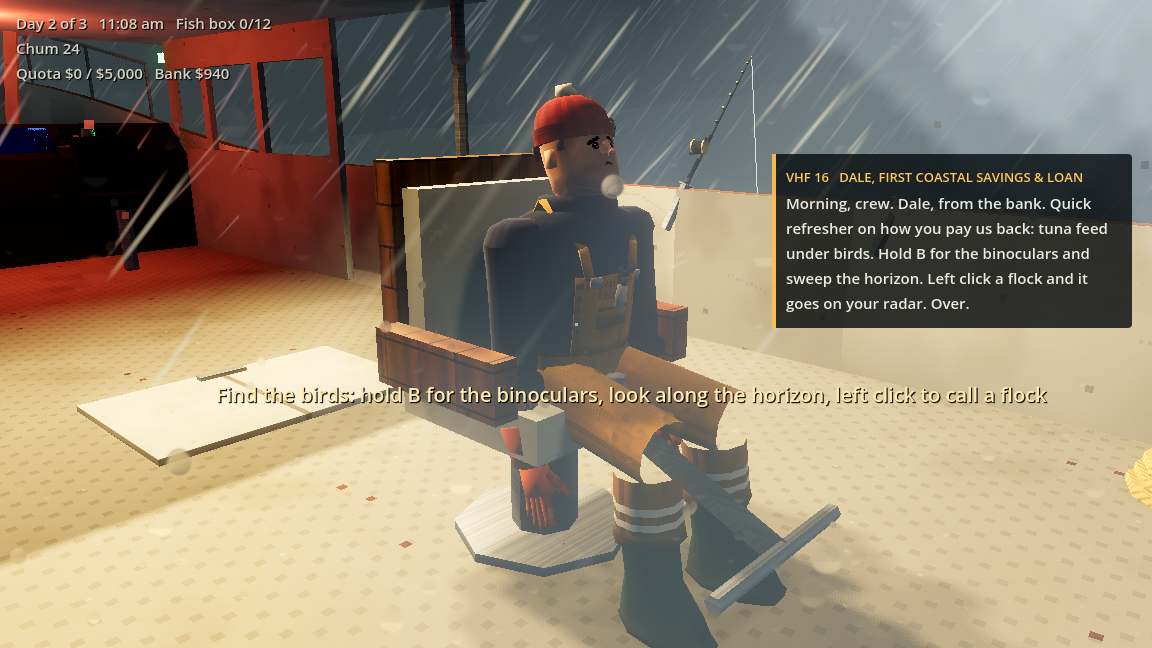
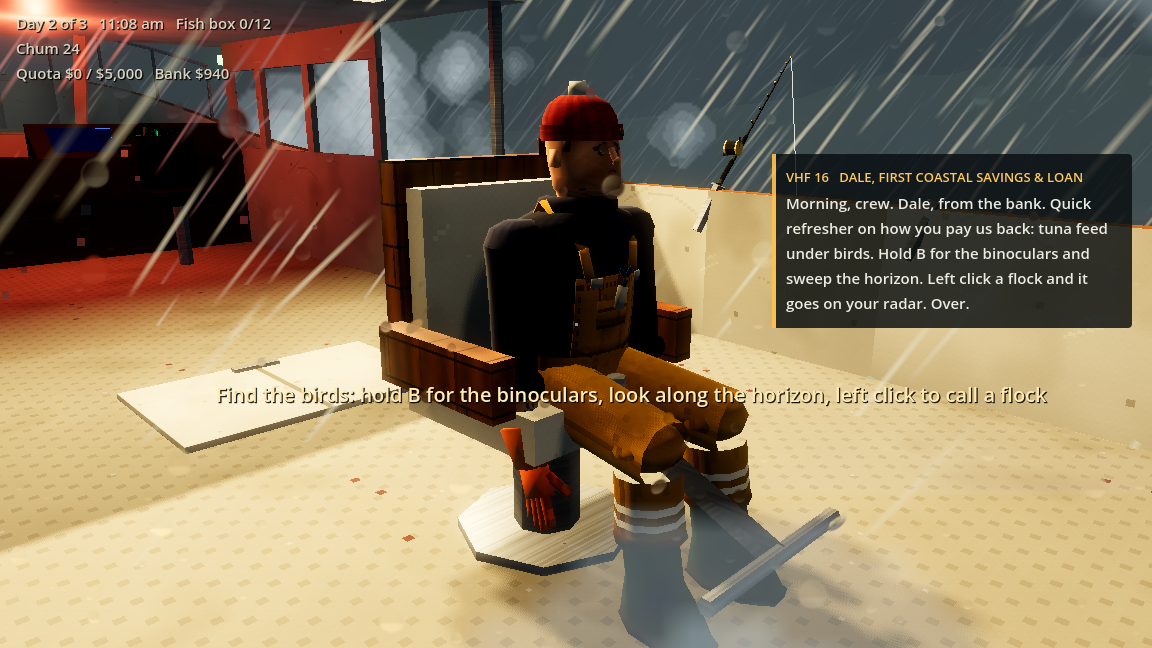
Crew: round knees (no gap when he sits); the chair in the manual and the docs

diff --git a/art/fisherman.py b/art/fisherman.py
@@ -232,6 +232,11 @@ def parts():
                  (solid("reflect"), MAT_BODY), ((lx, ly + 2, lw, 2), MAT_ACCENT), ((lx, ly, lw, 2), MAT_ACCENT),
                  (solid("accent_dark"), MAT_ACCENT)]
         tube(lower, rings, 10, bands)
+        # the knee: a round cap of oilskin on the joint, so a bent leg (sitting, crouching) never opens a gap there
+        kx = x * 0.111
+        knee = [((kx, 0.52 + 0.065 * math.cos(a), 0.004), 0.004 + 0.094 * math.sin(a), 0.004 + 0.1 * math.sin(a),
+                 W(**{"shin_" + side: 1.0})) for a in (0.0, 0.5, 1.0, math.pi / 2, math.pi - 1.0, math.pi - 0.5, math.pi)]
+        tube(lower, knee, 10, (R["oil_leg"], MAT_ACCENT))
         del oil
         # ============================================================== a sea boot: green rubber on a black sole
         foot = "foot_" + side

diff --git a/docs/WHILE_YOU_WERE_AWAY.md b/docs/WHILE_YOU_WERE_AWAY.md
@@ -1,5 +1,20 @@
 # While you were away (newest first)
 
+## A new crew, repainted boats, a fighting chair you can sit in (all run and tested in Godot 4.7.2)
+- **Every test passes when run in Godot** (fight, strike, rods, landing, wait, sail, helm, deck, hull, look,
+  weather, code, steam, net and the hand-off), and a bot plays a whole solo trip to the sale
+  (`tests/trip_test.tscn`). Fixed: hauling stopped when the swell drifted your crosshair off the door; every
+  crewmate's forearms floated up beside their head (the body's joints were worked out in the wrong frame).
+- **The crew** (`art/fisherman.py`, built with the space fishing game's suit kit, vendored in `art/kit`): a young
+  deckhand in chunky low poly with a 128 px painted atlas: red beanie with a pom-pom, navy roll-neck jumper, oilskin
+  bib and braces in each player's colour, green boots, orange gloves, a mackerel's tail out of his pocket. His face
+  is ten pixel-art expressions that follow what he's doing (shocked when the reel screams, gritting his teeth in a
+  fight, wiped out, dizzy, smug at the wheel, happy with a fish on deck, glum in a storm), blinking now and then.
+- **The boats** repainted the same way (`art/boat_paint.py`): scuffed gelcoat, the non-skid deck's pattern, teak,
+  canvas, antifouling with barnacles, baked shading, crisp pixels; the skiff's outboards have real cowls.
+- **The fighting chair** works (`boat/chair.gd`): E to sit, it swivels where you look, a fish fought from it tires
+  your arms slower. In the owner's manual.
+
 ## A first step off the PS1 look, and the handoff to a local session
 **Not run in Godot yet. Read `docs/HANDOFF.md`.**
 - The PS1 screen filter's off (pass `--screen=psx_360` for it back), textures filter smoothly, the light's ACES

diff --git a/docs/HANDOFF.md b/docs/HANDOFF.md
@@ -102,7 +102,7 @@ Everything big enough to look usable must be usable, or go. Today:
 
 | Thing | Usable now? | Do |
 |---|---|---|
-| The fighting chair (sportfisher) | no | **Make it the real thing:** sit in it (E), drop the rod in its gimbal, fight from it (your arms tire slower, but you can't walk the rod to a corner; it swivels with the fish). Or sit and chill. |
+| The fighting chair (sportfisher) | **yes** (boat/chair.gd, tests/chair_test.tscn) | Done: E sits you in it, E or a jump gets you up; it swivels where you look; a fish fought from it tires your arms 0.6x; sitting with no fish your arms come back twice as fast. |
 | The tuna tower (sportfisher) | no | Climb it: see further (the binoculars from up there spot flocks the deck can't). |
 | The leaning post / skipper's seat / bench | no | Sit or lean (E), just to chill. |
 | The cooler (sportfisher), the live well, the fish box | the box takes fish (as a whole: E on the fish) | Cooler: grab a drink (funny; maybe a little arm rest). Live well: see the mackerel in it. Fish box: the lid opens as fish go in. |
